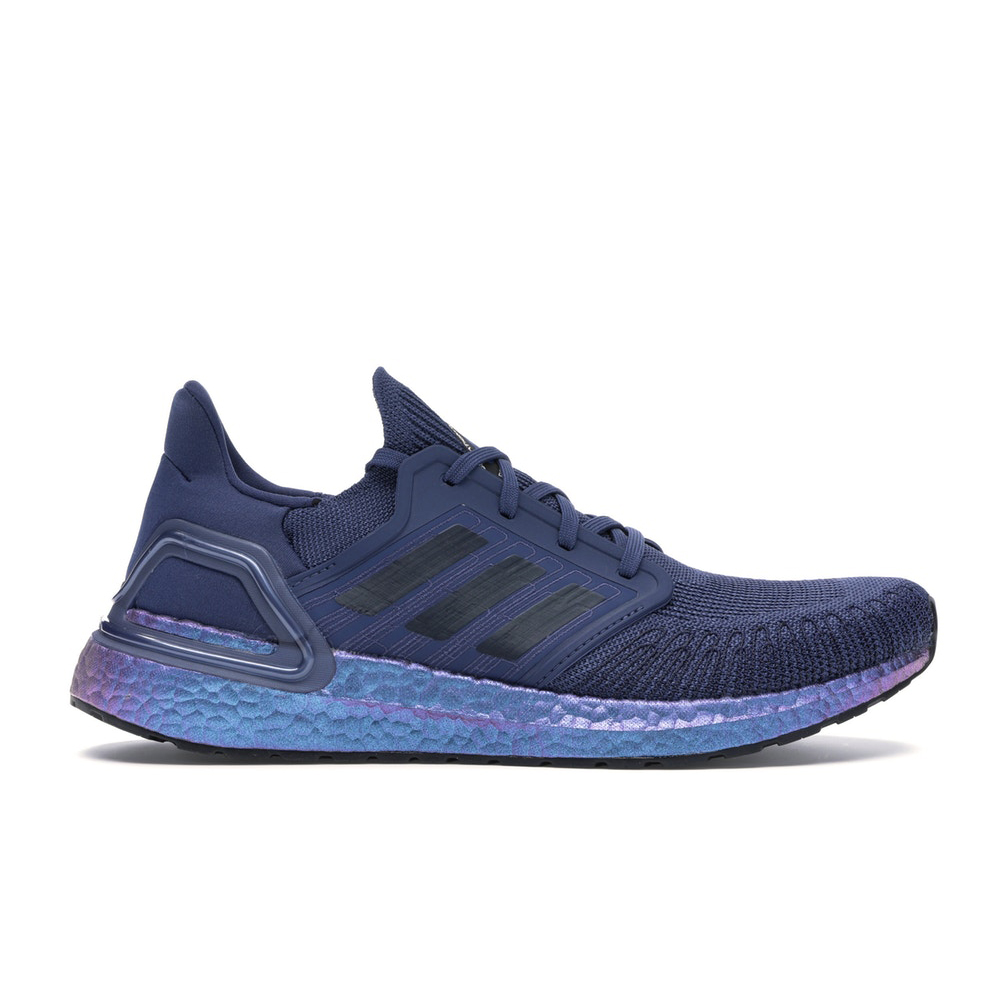
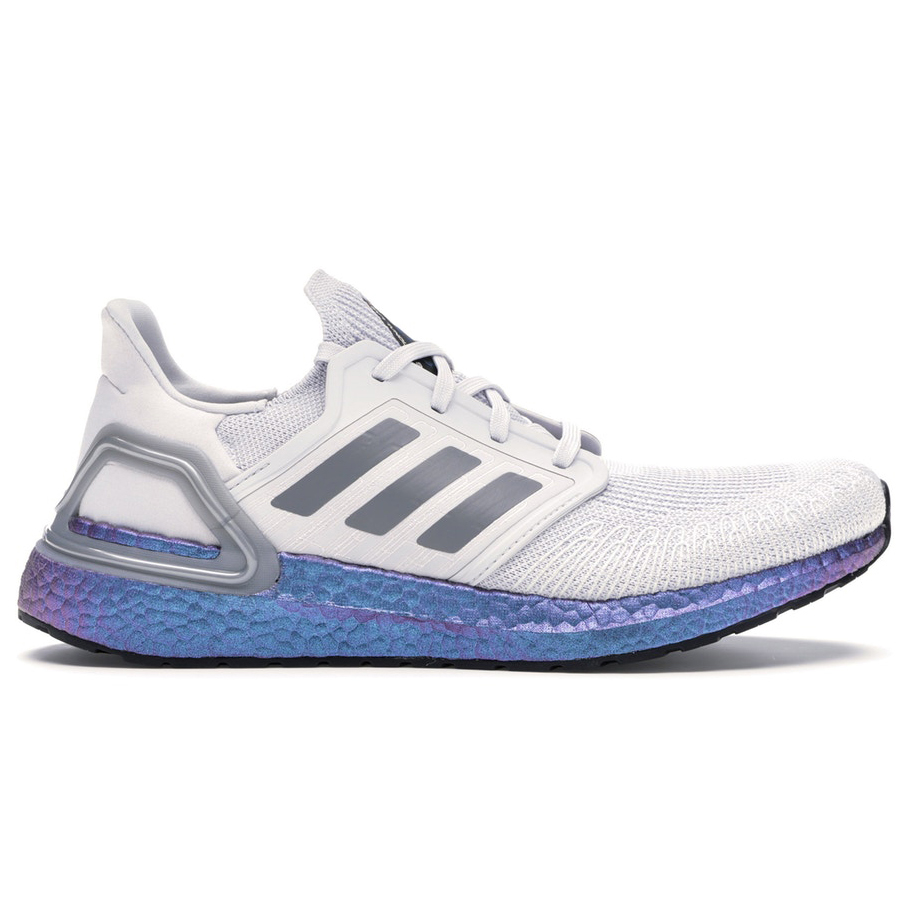
new gifts

Changed region(s): [[0.0, 0.2791, 0.9933, 0.7752]]

diff --git a/gifts.js b/gifts.js
@@ -100,11 +100,21 @@ module.exports = [
 			link: "https://stockx.com/nike-adapt-bb-mag",
 			size: 9.5,
 			scrape: true},
-		{name: `Ultra Boost 2020 ISS US National Lab Tech Indigo (Size 10)`, 
+		{name: `Ultra Boost 2020 ISS US National Lab Dash Grey (Size 9.5)`, 
 			image: "./images/issultraboost.jpg", 
-			link: "https://stockx.com/adidas-ultra-boost-2020-iss-us-national-lab-tech-indigo",
-			size: 10,
+			link: "https://stockx.com/adidas-ultra-boost-2020-iss-us-national-lab-dash-grey",
+			size: 9.5,
 			scrape: true},
+		{name: `Air Mag Slippers`, 
+			image: "./images/magslippers.jpg", 
+			link: "https://bannedgoods.com/collections/view-all/products/mags",
+			sortPrice: 60,
+			listPrice: "$60 + s&h"},
+		{name: `Copper Gnome Cocktail Shaker`, 
+			image: "./images/gnomeshaker.jpg", 
+			link: "https://www.williams-sonoma.com/products/elyx-copper-gnome-cocktail-shaker/?pkey=ctabletop-bar-tool%7Cbar-cocktail-shaker",
+			sortPrice: 100,
+			listPrice: "$100"},
 	]
 
 /* Gift Templates

diff --git a/public/js/app.js b/public/js/app.js
@@ -18,13 +18,13 @@ $(function(){
 		console.log(`displaying ${arr.length} gifts`)
 		$(contentDivs).empty();
 		for (let gift of arr) {
-			$(gift.sortPrice <= 25 
+			$(gift.sortPrice < 25 
 				? "#budgetContent" 
-				: gift.sortPrice <= 75
+				: gift.sortPrice < 75
 					? "#goodContent"
-					: gift.sortPrice <= 250
+					: gift.sortPrice < 250
 						? "#highContent"
-						: gift.sortPrice <= 750
+						: gift.sortPrice < 750
 							? "#bigContent"
 							: "#grailContent")
 			.append(`
